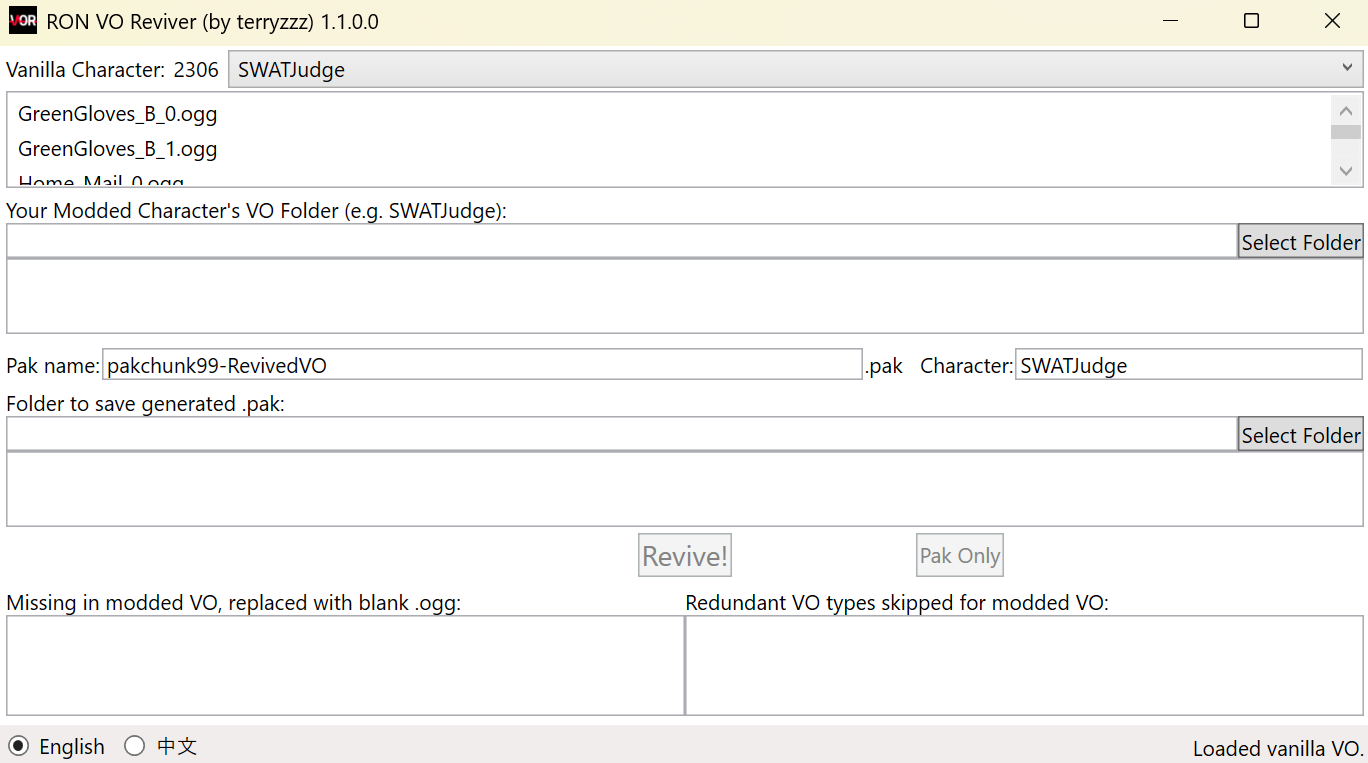
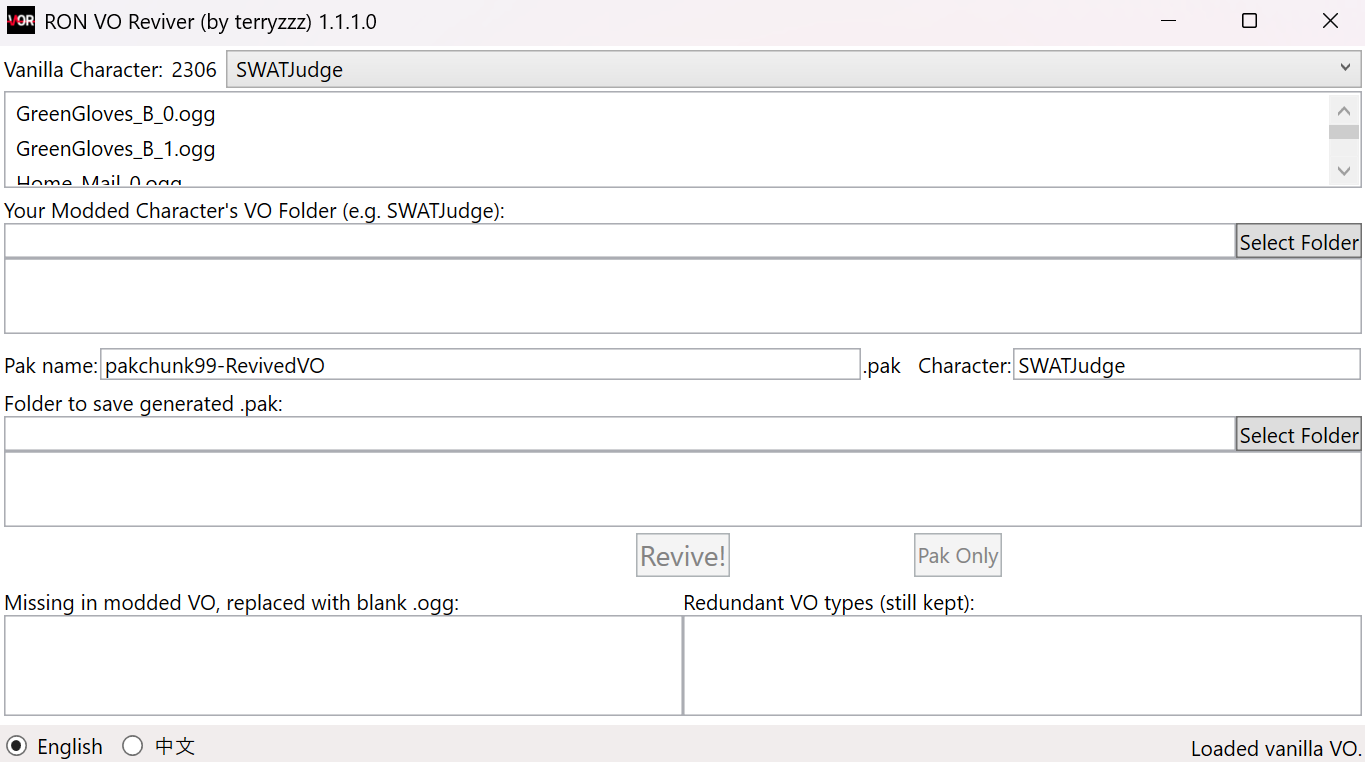
Update README

diff --git a/README.md b/README.md
@@ -1,6 +1,6 @@
 # RON VO Reviver
 
-<img align="center" src="resources/MainWindow.png" alt="Main window">
+![Main window](resources/MainWindow.png)
 
 This is a Ready or Not VO mod utility tool that greatly simplifies the process of creating .pak VO mods for LSS Update or post-LSS unpaked version. The following features are supported:
 
@@ -8,11 +8,14 @@ This is a Ready or Not VO mod utility tool that greatly simplifies the process o
 - Auto audio conversion from common formats to .ogg (quality=6)
 - Auto multi-language subtitle files matching
 - Missing VO type listing and substitution with blank audio
+- Special "-S" type handling for SWAT characters
 - Auto paking (**unpaked version also available for creating post-LSS mods**)
 - English and Simplifed Chinese UI
 - ...
 
 Existing mods can be revived and packed within a few clicks. For modders creating new VO mods, **this tool also fills extra variants by copy existing ones from the mod files**. (e.g. there are 38 variants of yelling at civilian VO in vanilla game but only 10 from your mod, this tool copy & paste the 10 VOs to the count of 38)
+
+If your mod does not contain "S" variants of voiceline (e.g. `[CALL]ArrestMaleS` is the "S" variant of `[CALL]ArrestMale`), this tool also trys to copy from non-"S" variants for filling up.
 
 ## How to Use
 
@@ -20,7 +23,7 @@ Existing mods can be revived and packed within a few clicks. For modders creatin
 
 There's **no need** to prepare the full set of vanilla VO files. Simply choose the desired character from the drop-down menu and you will see the full list of original VO filenames.
 
-<img align="center" src="resources/Step1.png" alt="Select Vanilla Character">
+![Select Vanilla Character](resources/Step1.png)
 
 ### 2. Select the folder of your modded VO
 
@@ -28,18 +31,18 @@ E.g. if your modded character is `SWATJudge`, The path should be `<SomePath>\SWA
 
 Subtitle files (in format of `sub_*.csv`) in this folder will also be loaded. Note that subtitles are **not compulsory** and you may put in whatever languages supported by your mod.
 
-<img align="center" src="resources/Step2.png" alt="Select the old VO mod folder">
+![Select the old VO mod folder](resources/Step2.png)
 
 ### 3. Edit your .pak name and check the Character Name
 
-<img align="center" src="resources/Step3.png" alt="Edit pak name">
+![Edit pak name](resources/Step3.png)
 
 ### 4. Choose the folder to save your generated files
 
-<img align="center" src="resources/Step4.png" alt="Select output folder">
+![Select output folder](resources/Step4.png)
 
 ### 5. Click the `Revive!` button
 
 - Your packed mod, along with the unpacked version can be found under the same folder. In case that you need to adjust file names, subtitles, etc., you may also click the `Pak Only` button to pak the mod again after modifying in the unpacked folder.
 
-<img align="center" src="resources/Step5.png" alt="Results">
+![Results](resources/Step5.png)
